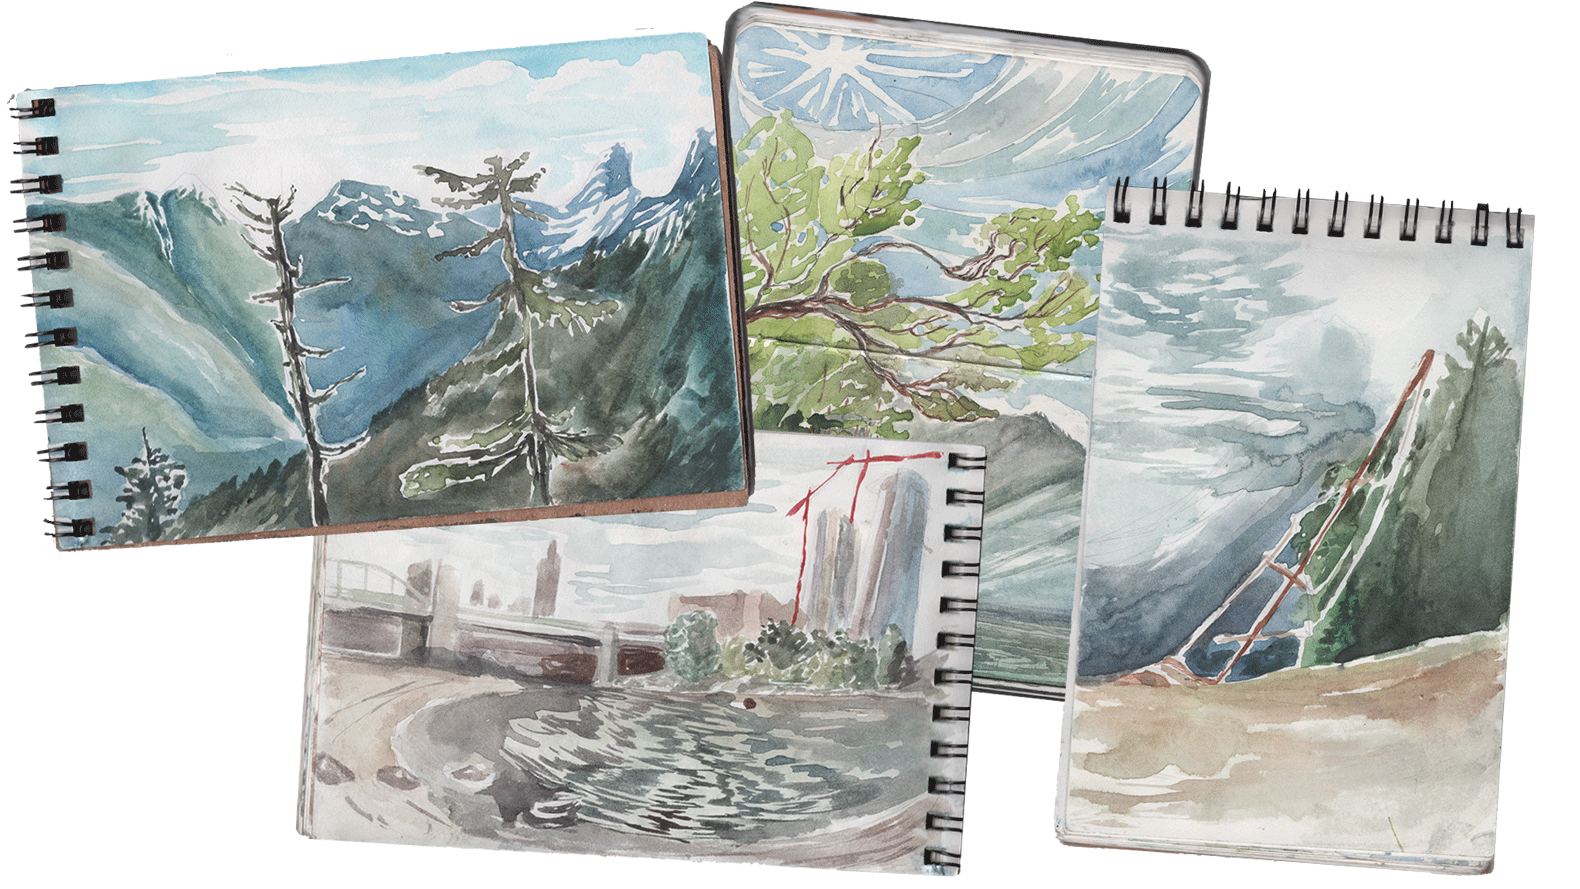
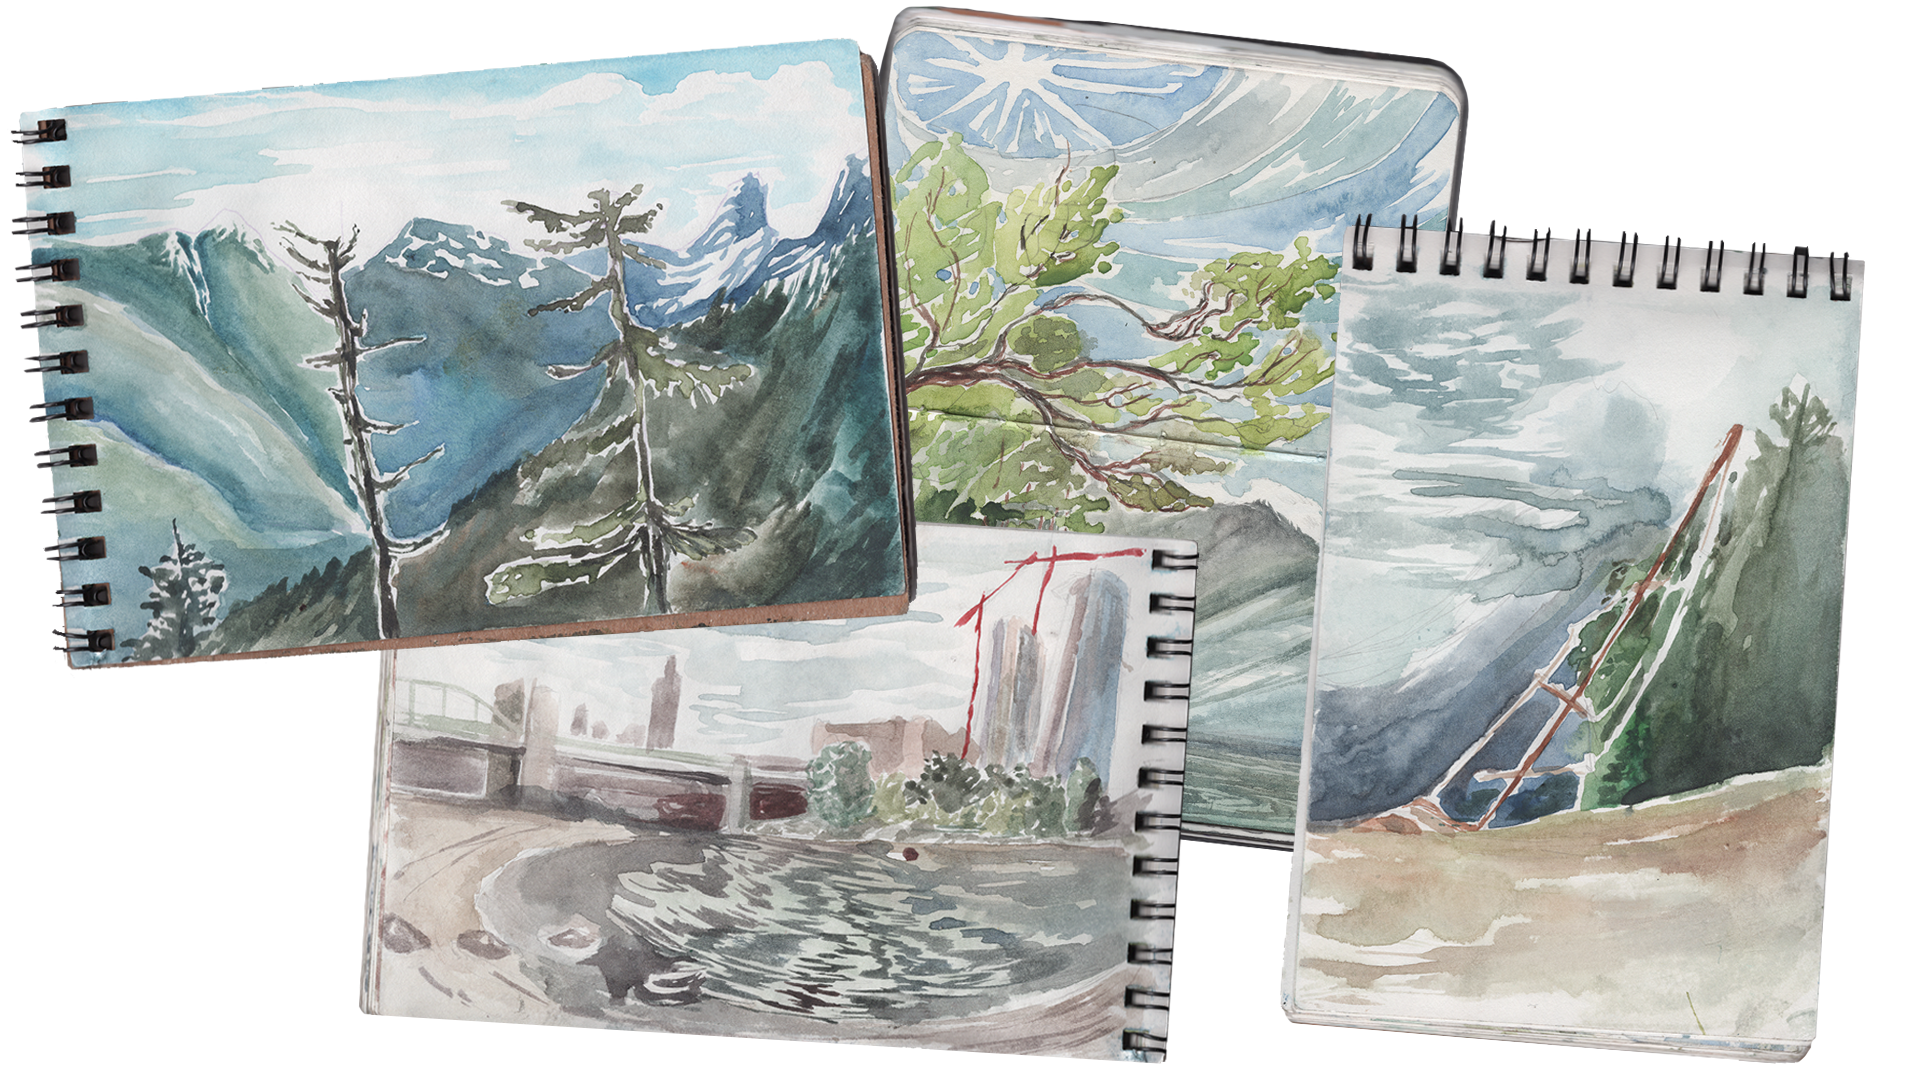
fixin sketchbook

diff --git a/sketchbook.html b/sketchbook.html
@@ -57,13 +57,13 @@
         <li class="nav-branding-item">
           <ul class="nav-branding-group">
             <li class="nav-branding-item">
-              <a href="work.html" class="nav-link-primary">Work</a>
+              <a href="work.html" class="nav-link-primary">work</a>
             </li>
             <li class="nav-branding-item">
-              <a href="about.html" class="nav-link-primary">About</a>
+              <a href="about.html" class="nav-link-primary">about</a>
             </li>
             <li class="nav-branding-item">
-              <a href="sketchbook.html" class="nav-link-primary">Sketchbook</a>
+              <a href="" class="nav-link-primary-inactive">sketchbook</a>
             </li>
           </ul>
         </li>
@@ -74,7 +74,7 @@
       <aside class="project-aside">
         <div class="project-info">
           <h2>Vancouver/ Salt Spring</h2>
-          <a href="lightbox2/"> • CLICK TO SCROLL THROUGH </a>
+          <a href=""> • CLICK TO SCROLL THROUGH </a>
         </div>
       </aside>
 
@@ -85,29 +85,97 @@
             width="1920"
             height="1080"
             loading="lazy"
-            alt="final key art for the fantasy chef game trail mixers. three goblins on a caravan food truck head into the forest while hungry customers follow behind."
-          />
-        </figure>
-        <div class="project-description-container">
-          <div class="project-title col-2">
-            <p>Caption here</p>
-          </div>
-          <div class="project-description col-2">
-            <p>Caption here</p>
-          </div>
-        </div>
-        <figure class="project-image">
-          <img
-            src="assets/project-2/WIP-KeyArt-AndyPoystila-MentorProject_FlattenandRender_2025 copy 2.jpeg"
-            width="1920"
-            height="1080"
-            loading="lazy"
-            alt="Describe your project"
+            alt="pile of pages."
+            style="max-width: 140%"
           />
         </figure>
       </main>
     </div>
 
+    <div class="project-wrapper">
+      <aside class="project-aside">
+        <div class="project-info">
+          <h2>My Yetis</h2>
+          <a href=""> • CLICK TO SCROLL THROUGH </a>
+        </div>
+      </aside>
+      <main class="project-details">
+        <figure class="project-image">
+          <img
+            src="assets/sketchbook/andy-ukko-poystila-portfolio-yetis-yeti-artwork.png"
+            width="1920"
+            height="1080"
+            loading="lazy"
+            alt="pile of pages."
+            style="max-width: 140%"
+          />
+        </figure>
+      </main>
+    </div>
+
+    <div class="project-wrapper">
+      <aside class="project-aside">
+        <div class="project-info">
+          <h2>My Yetis</h2>
+          <a href=""> • CLICK TO SCROLL THROUGH </a>
+        </div>
+      </aside>
+      <main class="project-details">
+        <figure class="project-image">
+          <img
+            src="assets/sketchbook/andy-ukko-poystila-portfolio-yetis-yeti-artwork.png"
+            width="1920"
+            height="1080"
+            loading="lazy"
+            alt="pile of pages."
+            style="max-width: 140%"
+          />
+        </figure>
+      </main>
+    </div>
+
+    <div class="project-wrapper">
+      <aside class="project-aside">
+        <div class="project-info">
+          <h2>San Francisco</h2>
+          <a href=""> • CLICK TO SCROLL THROUGH </a>
+        </div>
+      </aside>
+      <main class="project-details">
+        <figure class="project-image">
+          <img
+            src="assets/sketchbook/andy-ukko-poystila-portfolio-vancouver-san-francisco-california-artwork.png"
+            width="1920"
+            height="1080"
+            loading="lazy"
+            alt="pile of pages."
+            style="max-width: 140%"
+          />
+        </figure>
+      </main>
+    </div>
+
+    <div class="project-wrapper">
+      <aside class="project-aside">
+        <div class="project-info">
+          <h2>Scotland & London</h2>
+          <a href=""> • CLICK TO SCROLL THROUGH </a>
+        </div>
+      </aside>
+      <main class="project-details">
+        <figure class="project-image">
+          <img
+            src="assets/sketchbook/andy-ukko-poystila-portfolio-london-scotland-artwork.png"
+            width="1920"
+            height="1080"
+            loading="lazy"
+            alt="pile of pages."
+            style="max-width: 140%"
+          />
+        </figure>
+      </main>
+    </div>
+    <hr class="dashed" />
     <div class="outer-wrapper">
       <section>
         <div class="sketchbook-wrapper">
@@ -180,7 +248,7 @@
 
     <ul class="footer-global" style="background-color: rgba(#ffffff00;">
       <li class="footer-tagline">
-        <h4>andypoystila22@gmail.com - Burnaby BC Canada</h4>
+        <h4>andypoystila22@gmail.com - @ukkop</h4>
         <p class="footer-fineprint">
           hand-coded with love and peace by © Andy Ukko Poystila
           <script>

diff --git a/work.html b/work.html
@@ -70,7 +70,7 @@
           <li class="nav-branding-item">
             <ul class="nav-branding-group">
               <li class="nav-branding-item">
-                <a href="work.html" class="nav-link-primary">work</a>
+                <a href="" class="nav-link-primary-inactive">work</a>
               </li>
               <li class="nav-branding-item">
                 <a href="about.html" class="nav-link-primary">about</a>
@@ -95,7 +95,7 @@
       <div class="work-container">
         <ul class="navigation-menu padding-jumbo">
           <li class="menu-item">
-            <h2>check out my projects!:</h2>
+            <h2>Check out my projects:</h2>
           </li>
           <li class="menu-item">
             <a href="1-capstone.html" id="navigation-item-1" class="item">

diff --git a/styles/style.css b/styles/style.css
@@ -1287,9 +1287,6 @@ a.nav-link-primary-inactive {
 .project-details {
   width: 100%;
   padding: var(--padding-small);
-  background: var(
-    --color-gradient-project-details
-  ); /* TODO: Remove gradient background if you prefer a simpler design */
 }
 
 /* Previous/Next Arrow Styles */
